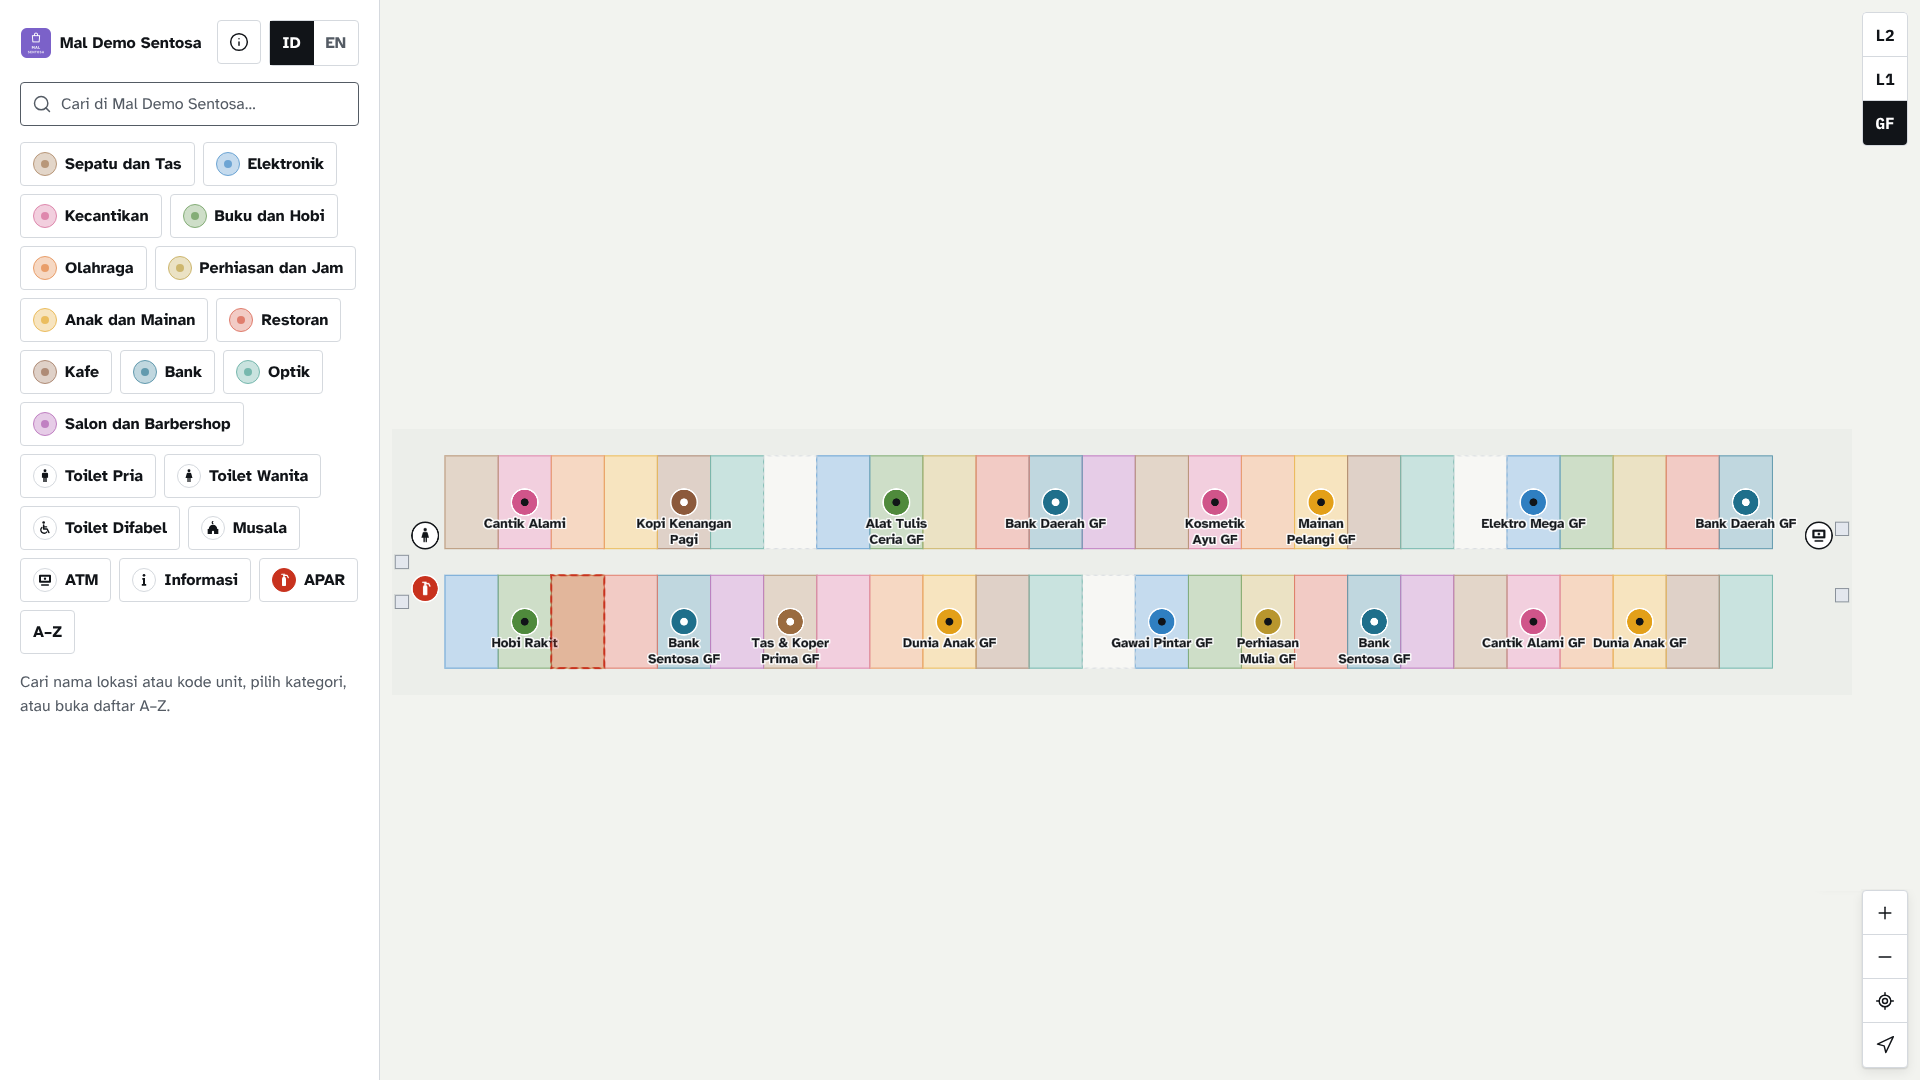
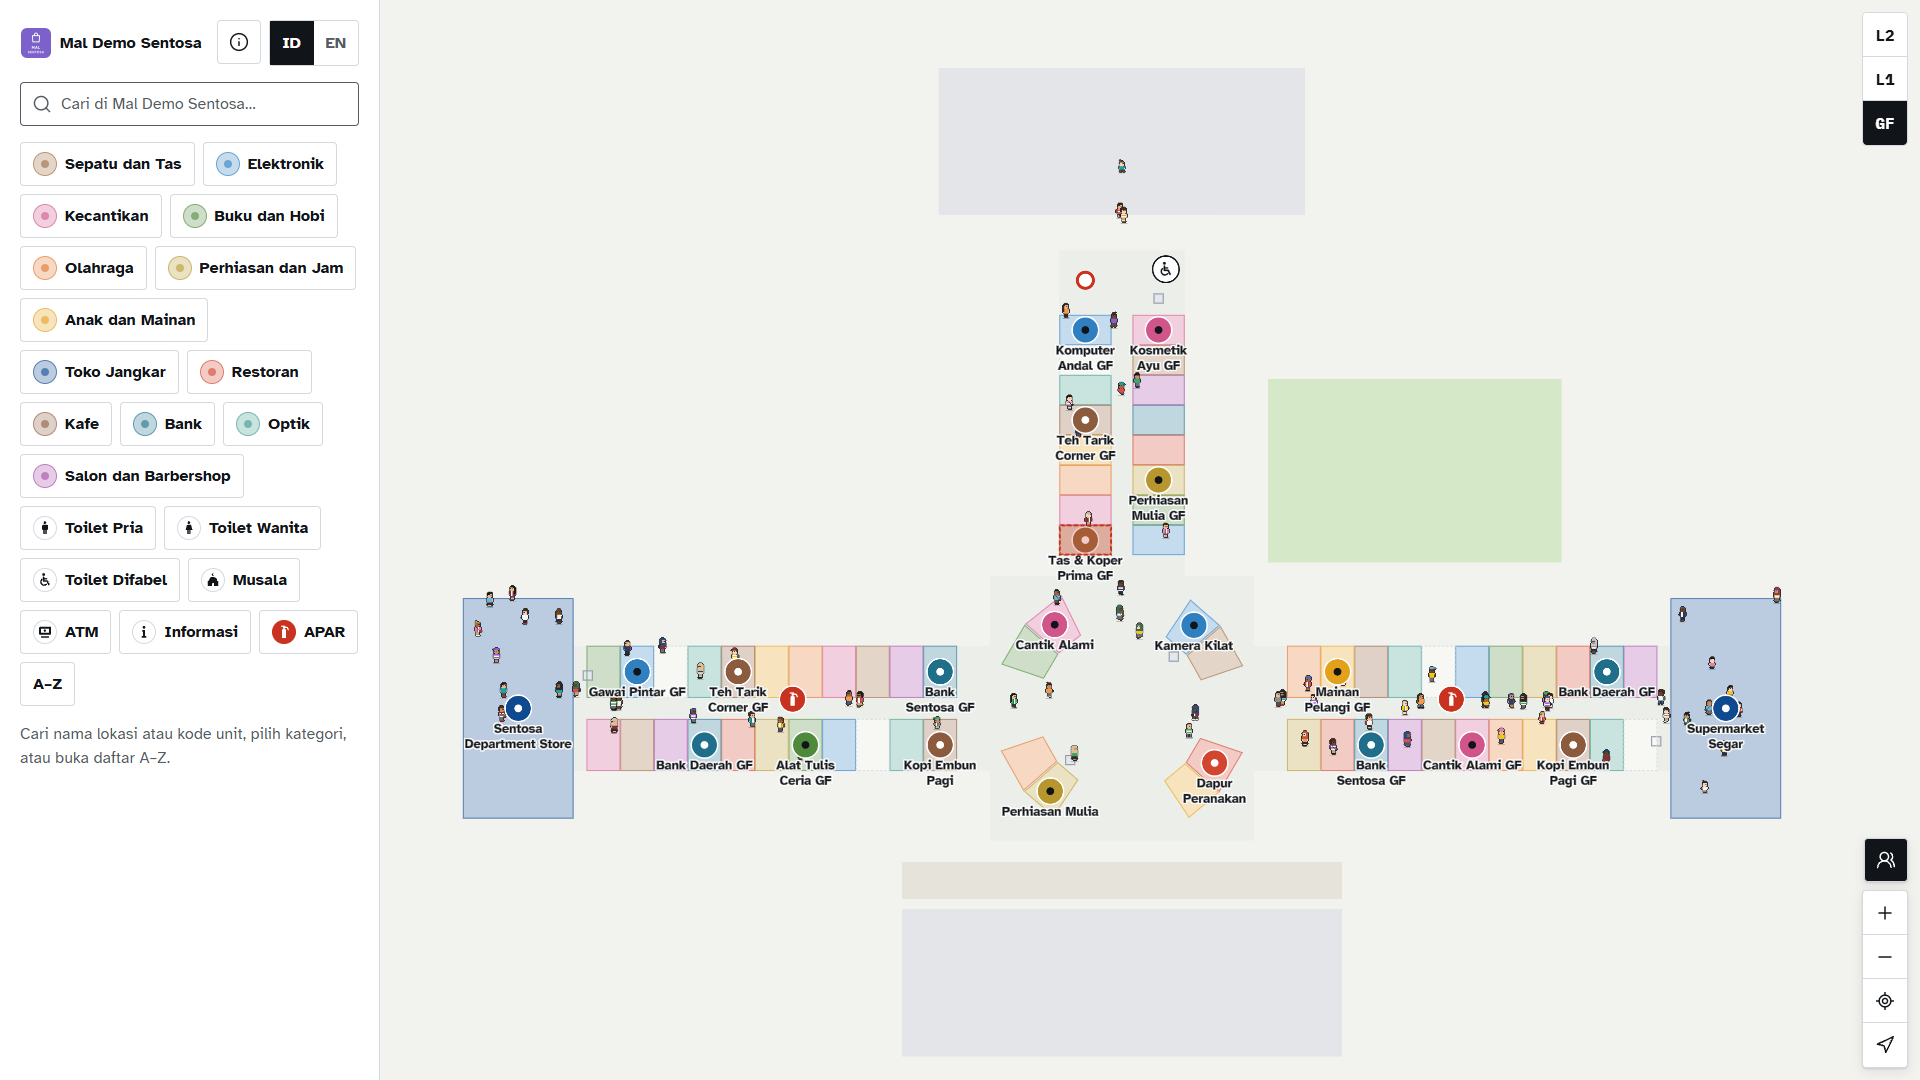
Demo: ganti nama mirip merek, perbarui tangkapan layar README
Beberapa nama di data demo terlalu dekat dengan merek dan perusahaan
sungguhan (XXI, Kopi Kenangan, RM Sederhana, Sate Khas Senayan, DAMRI,
Garuda). Semuanya diganti nama fiktif.

Tangkapan layar README dibuat ulang dari build sekarang: tata letak gedung
demo, kerumunan pengunjung, dan nama baru. Rute bandara memperlihatkan
langkah di L1 menuju gerbang; rute rumah sakit dari pendaftaran ke
Radiologi IGD.

diff --git a/packages/demo/src/venues/mall.ts b/packages/demo/src/venues/mall.ts
@@ -29,13 +29,13 @@ const STORES: Record<string, readonly string[]> = {
   jewelry: ['Perhiasan Mulia', 'Jam Presisi'],
   kids: ['Dunia Anak', 'Mainan Pelangi'],
   restaurant: [
-    'Rumah Makan Padang Sederhana',
-    'Sate Senayan',
+    'Rumah Makan Padang Sentosa',
+    'Sate Bara',
     'Mie Kocok Bandung',
     'Dapur Peranakan',
     'Sushi Kecil',
   ],
-  cafe: ['Kopi Kenangan Pagi', 'Teh Tarik Corner', 'Roti Hangat'],
+  cafe: ['Kopi Embun Pagi', 'Teh Tarik Corner', 'Roti Hangat'],
   bank: ['Bank Sentosa', 'Bank Daerah'],
   optic: ['Optik Terang'],
   salon: ['Salon Rambut Indah', 'Barbershop Tegas'],
@@ -45,7 +45,7 @@ const STORES: Record<string, readonly string[]> = {
 const ANCHORS: Record<string, readonly [string, string]> = {
   GF: ['Sentosa Department Store', 'Supermarket Segar'],
   L1: ['Sentosa Home Living', 'Elektro Mega Megastore'],
-  L2: ['Zona Bermain Keluarga', 'Bioskop Sentosa XXI'],
+  L2: ['Zona Bermain Keluarga', 'Bioskop Sentosa'],
 };
 
 /** Jari-jari garis tengah koridor cincin atrium. */

diff --git a/packages/demo/src/venues/airport.ts b/packages/demo/src/venues/airport.ts
@@ -18,7 +18,7 @@ const FOOD = [
   'Teh Tarik Transit',
   'Sushi Gerbang',
 ];
-const AIRLINES = ['Garuda Biru', 'Nusa Air', 'Rajawali Express', 'Angkasa Jaya', 'Pelangi Air'];
+const AIRLINES = ['Elang Biru', 'Nusa Air', 'Rajawali Express', 'Angkasa Jaya', 'Pelangi Air'];
 
 /**
  * Bandara dua terminal (keberangkatan tiga lantai, kedatangan dua lantai) yang dihubungkan jalur
@@ -179,7 +179,7 @@ export function airportVenue(): SnapshotSource {
       v.location(unit, service, cats.baggage, `Ban Bagasi ${i + 1}`, { hours: always });
       return;
     }
-    const transport = ['Taksi Bandara', 'Bus Damri Kota', 'Kereta Bandara', 'Sewa Mobil'];
+    const transport = ['Taksi Bandara', 'Bus Kota', 'Kereta Bandara', 'Sewa Mobil'];
     const pick = transport[i - 6];
     if (pick) {
       v.location(unit, service, cats.transport, pick, { hours: always });

diff --git a/packages/demo/src/venues/concert.ts b/packages/demo/src/venues/concert.ts
@@ -44,7 +44,7 @@ const FOOD = [
   'Ayam Geprek Sorak',
 ] as const;
 const DRINK = [
-  'Kopi Kenangan Pagi',
+  'Kopi Embun Pagi',
   'Es Teh Jumbo',
   'Jus Segar Encore',
   'Kopi Susu Soundcheck',
